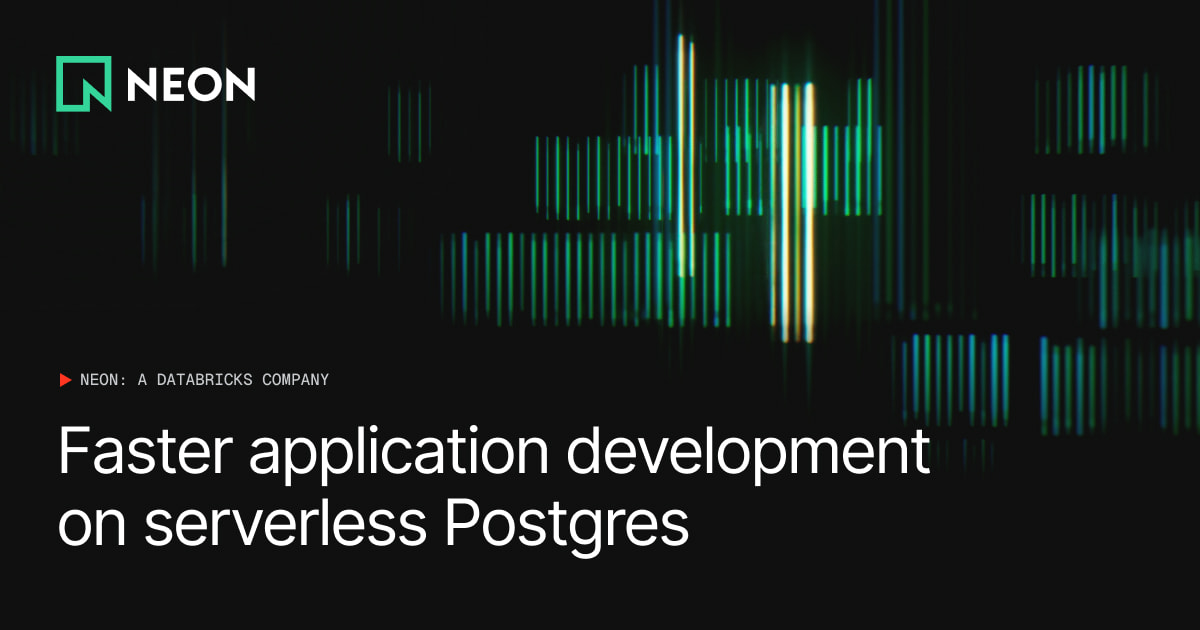
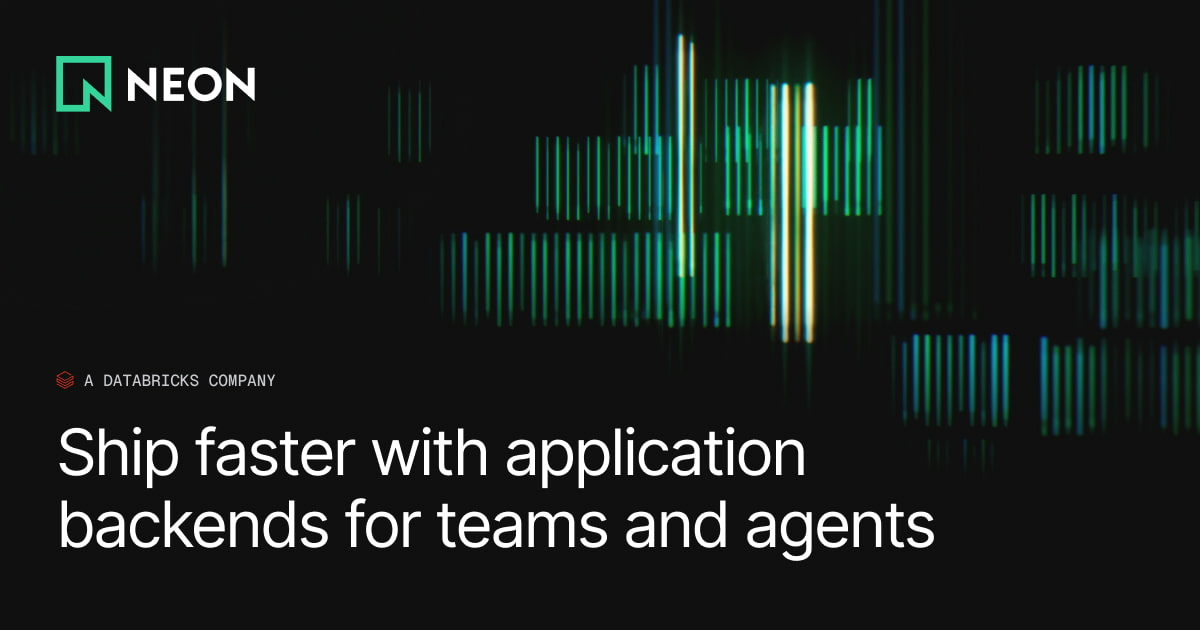
chore: update title and og

diff --git a/src/components/pages/home/hero/hero.jsx b/src/components/pages/home/hero/hero.jsx
@@ -71,8 +71,9 @@ const Hero = () => (
       </Link>
 
       <h1 className="mt-5 max-w-236 text-[68px] leading-dense tracking-tighter xl:max-w-[760px] xl:text-[52px] lg:max-w-[640px] lg:text-[44px] md:mt-4 sm:text-[28px]">
-        Fast Postgres Databases <br />
-        for Teams and Agents
+        Ship faster with application
+        <br />
+        backends for teams and agents
       </h1>
 
       <div className="mt-8 flex gap-x-5 lg:mt-7 lg:gap-x-4">
@@ -91,7 +92,6 @@ const Hero = () => (
             const tooltipProps = comingSoon
               ? {
                   'data-tooltip-id': tooltipId,
-                  // 'data-tooltip-html': comingSoonTooltip,
                 }
               : {};
 

diff --git a/src/constants/seo-data.js b/src/constants/seo-data.js
@@ -1,6 +1,6 @@
 import LINKS from './links';
 
-export const DEFAULT_IMAGE_PATH = '/images/social-previews/index.jpg?updated=2026-01-15';
+export const DEFAULT_IMAGE_PATH = '/images/social-previews/index.jpg?updated=2026-05-27';
 
 export default {
   index: {